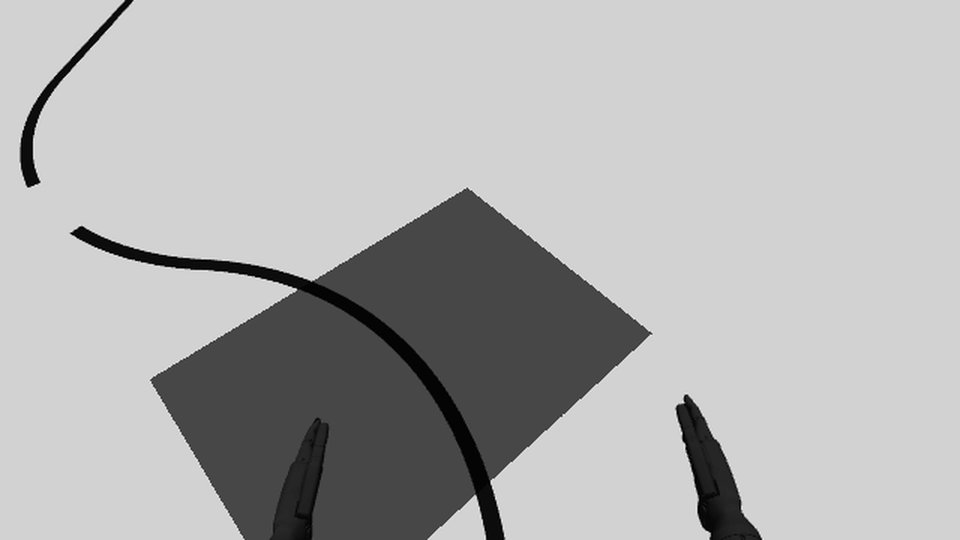
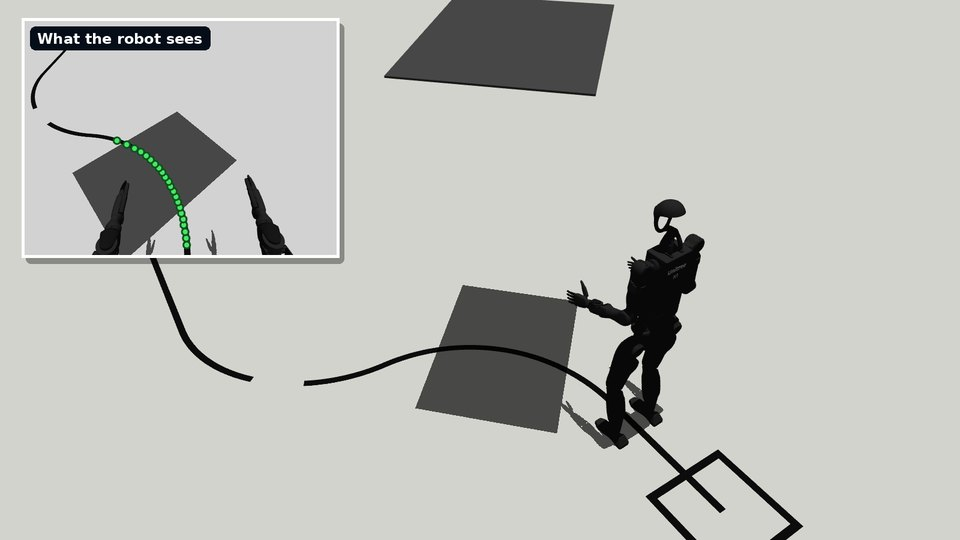
Seguidor de línea: nuevas imágenes (escena 3D, percepción y trayectoria)
- Tarjeta: render de MuJoCo del H1-2 sobre la pista del nivel 3 con la
  vista de su cámara IR y la línea detectada por la percepción
- Galería: escena completa, línea detectada en sombra, curva y barra de
  fin, y trayectoria con error lateral (en inglés)
- Texto: error medio de 2.7 cm en el nivel 3

Changed region(s): [[0.0, 0.0, 0.8438, 1.0], [0.4062, 0.0, 0.6562, 0.1778], [0.0, 0.4444, 0.0312, 0.4741]]

diff --git a/seguidor.html b/seguidor.html
@@ -120,11 +120,15 @@
               <div class="swiper-wrapper align-items-center">
 
                 <div class="swiper-slide">
-                  <img src="assets/img/projects/seguidor1.jpg" alt="What the robot's infrared camera sees: a shadowed zone, a curve and the end bar">
+                  <img src="assets/img/projects/seguidor1.jpg" alt="Unitree H1-2 on the level 3 track in MuJoCo, with the robot's infrared camera view and the detected line">
                 </div>
 
                 <div class="swiper-slide">
-                  <img src="assets/img/projects/seguidor2.png" alt="Robot trajectory over the level 3 track and lateral error">
+                  <img src="assets/img/projects/seguidor2.jpg" alt="Detected tape (green) in a shadow, on a curve and at the finish bar">
+                </div>
+
+                <div class="swiper-slide">
+                  <img src="assets/img/projects/seguidor3.png" alt="Robot trajectory over the level 3 track and lateral error to the tape">
                 </div>
 
               </div>
@@ -135,7 +139,7 @@
               A technical challenge from the Robotics40 training course on the Unitree H1-2: make the 70 kg humanoid walk along a 5 cm tape on the floor using only the RealSense D435i in its head as position feedback, and stop by itself at the finish bar. The robot moves with Unitree's walking controller (<code>LocoClient.Move</code>); the challenge is the closed loop that decides which velocities to command from what the camera sees. It is not a wheeled line follower: the camera is 1.7 m above the floor with a blind zone in front of the feet, the image sways with every step, the gait responds with delay, the heading drifts about 2°/s and there is no odometry.
             </p>
             <p>
-              The solution is split into perception, estimation, control, supervisor and logging blocks, and the same code runs in simulation and on the robot. Perception works on the infrared image projected to a bird's-eye view of the floor, with an adaptive relative-contrast threshold that keeps detecting the tape inside shadows (2,897 points at 1.0 cm error, versus 15 points and 67% false detections with a fixed threshold). Control is pure pursuit with a short lookahead and gyro-based drift compensation, and the supervisor handles waiting, tracking, line loss, finish and emergency stop. Validated in a MuJoCo simulator with the measured camera intrinsics and gait delay: 12/12 successful runs over 4 track levels. Testing on the real robot is the next step.
+              The solution is split into perception, estimation, control, supervisor and logging blocks, and the same code runs in simulation and on the robot. Perception works on the infrared image projected to a bird's-eye view of the floor, with an adaptive relative-contrast threshold that keeps detecting the tape inside shadows (2,897 points at 1.0 cm error, versus 15 points and 67% false detections with a fixed threshold). Control is pure pursuit with a short lookahead and gyro-based drift compensation, and the supervisor handles waiting, tracking, line loss, finish and emergency stop. Validated in a MuJoCo simulator with the measured camera intrinsics and gait delay: 12/12 successful runs over 4 track levels; on the level 3 track (curves, a 40 cm gap and a shadow) the robot stays on average 2.7 cm from the tape. Testing on the real robot is the next step.
             </p>
             <ul>
               <li><i class="bi bi-check-circle"></i> <span>Camera Geometry, Calibration and Bird's-Eye-View Perception</span></li>
